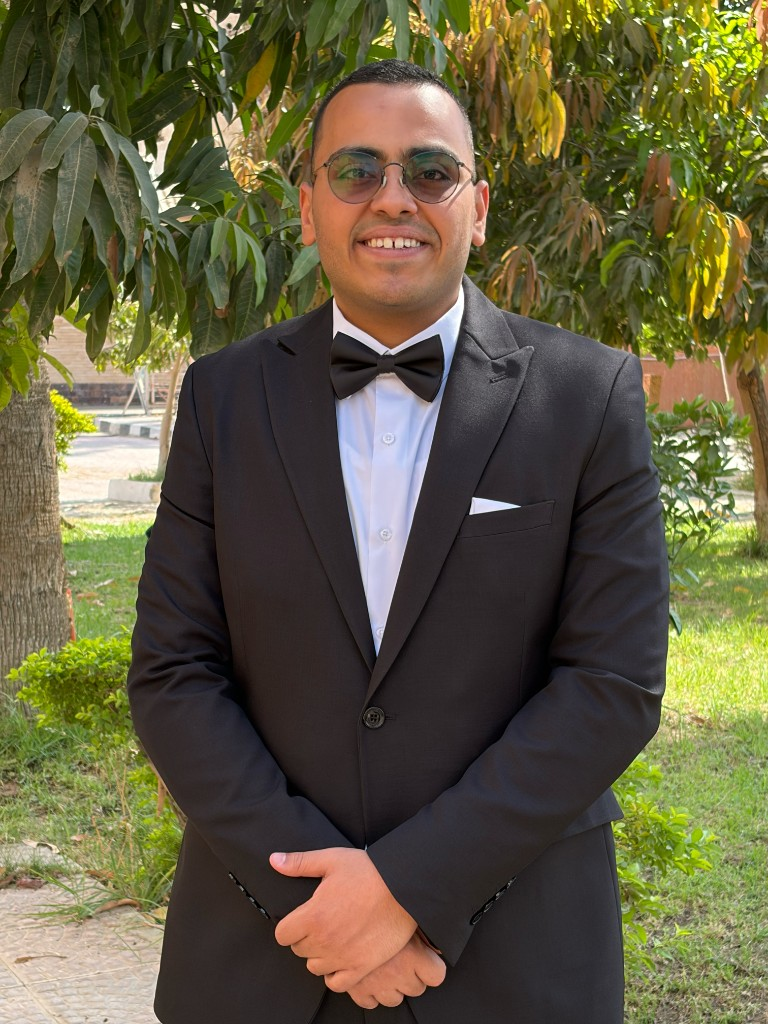
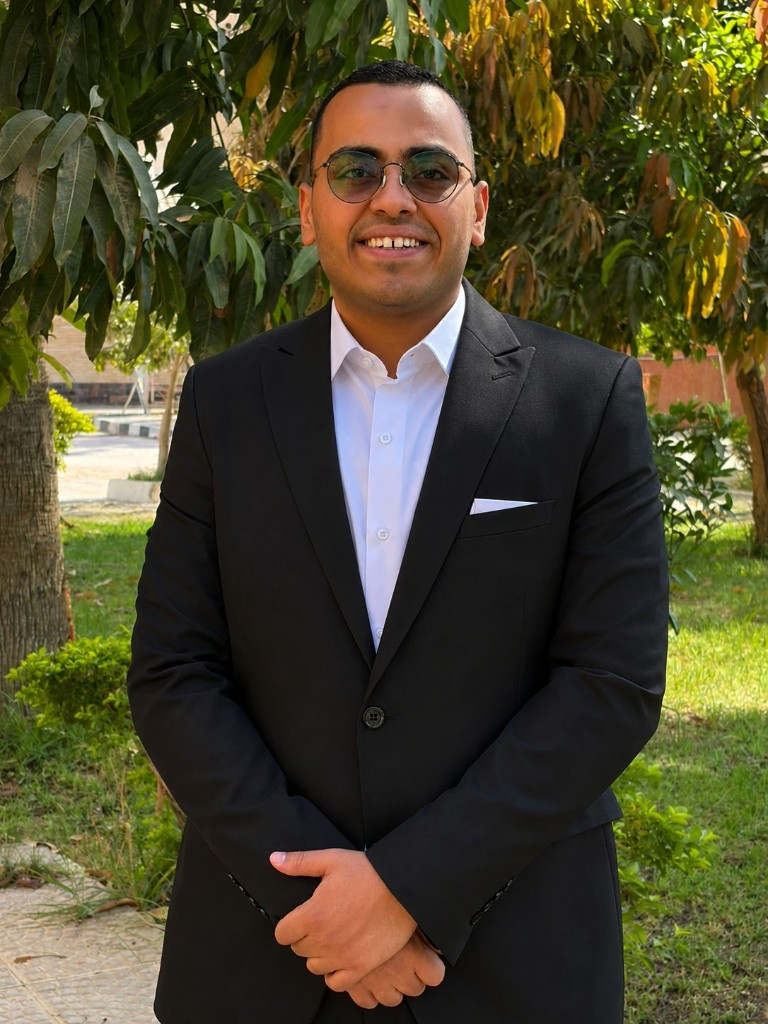
Update hero portrait and refine crop framing for the new photo.

diff --git a/index.html b/index.html
@@ -308,7 +308,7 @@
       pointer-events:none;
     }
     :root.light .photo-inner::after{background:linear-gradient(160deg,transparent 60%,rgba(40,35,110,.18))}
-    .photo-inner img{width:100%;height:100%;object-fit:cover;object-position:center 12%}
+    .photo-inner img{width:100%;height:100%;object-fit:cover;object-position:center 20%}
     @keyframes float-y{0%,100%{transform:translateY(0)}50%{transform:translateY(-9px)}}
 
     .geo{position:absolute;border-radius:50%;animation:float-y 5s ease-in-out infinite}
